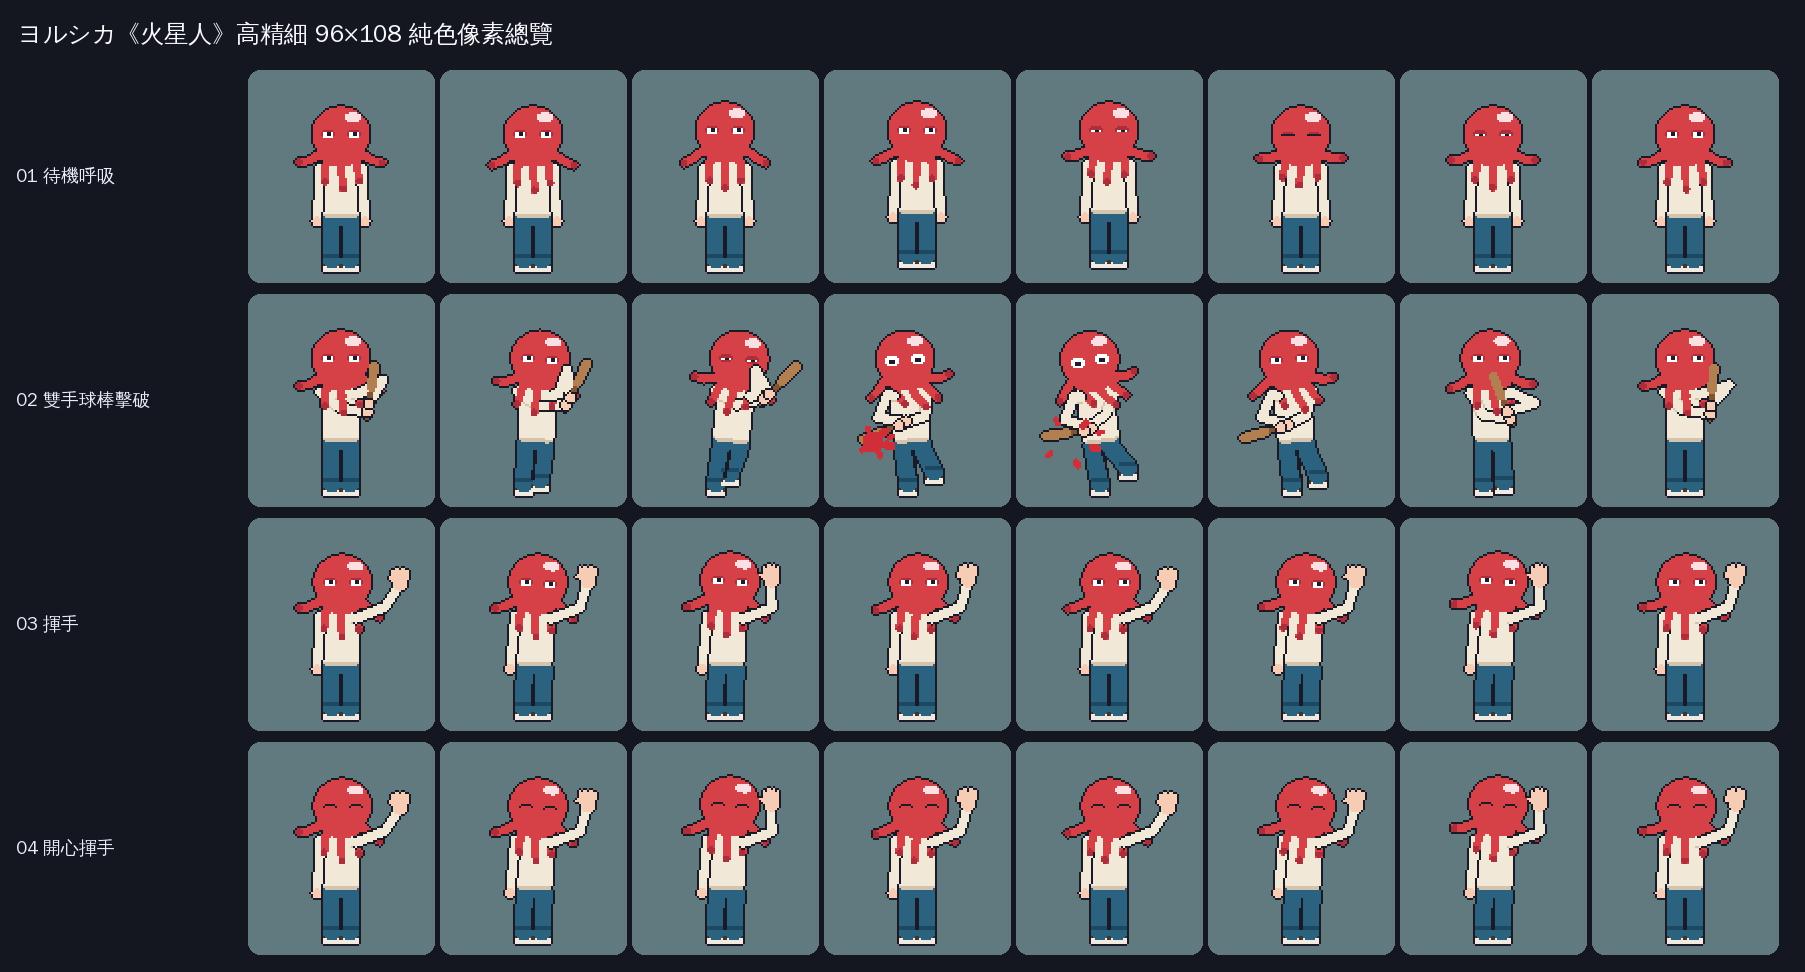
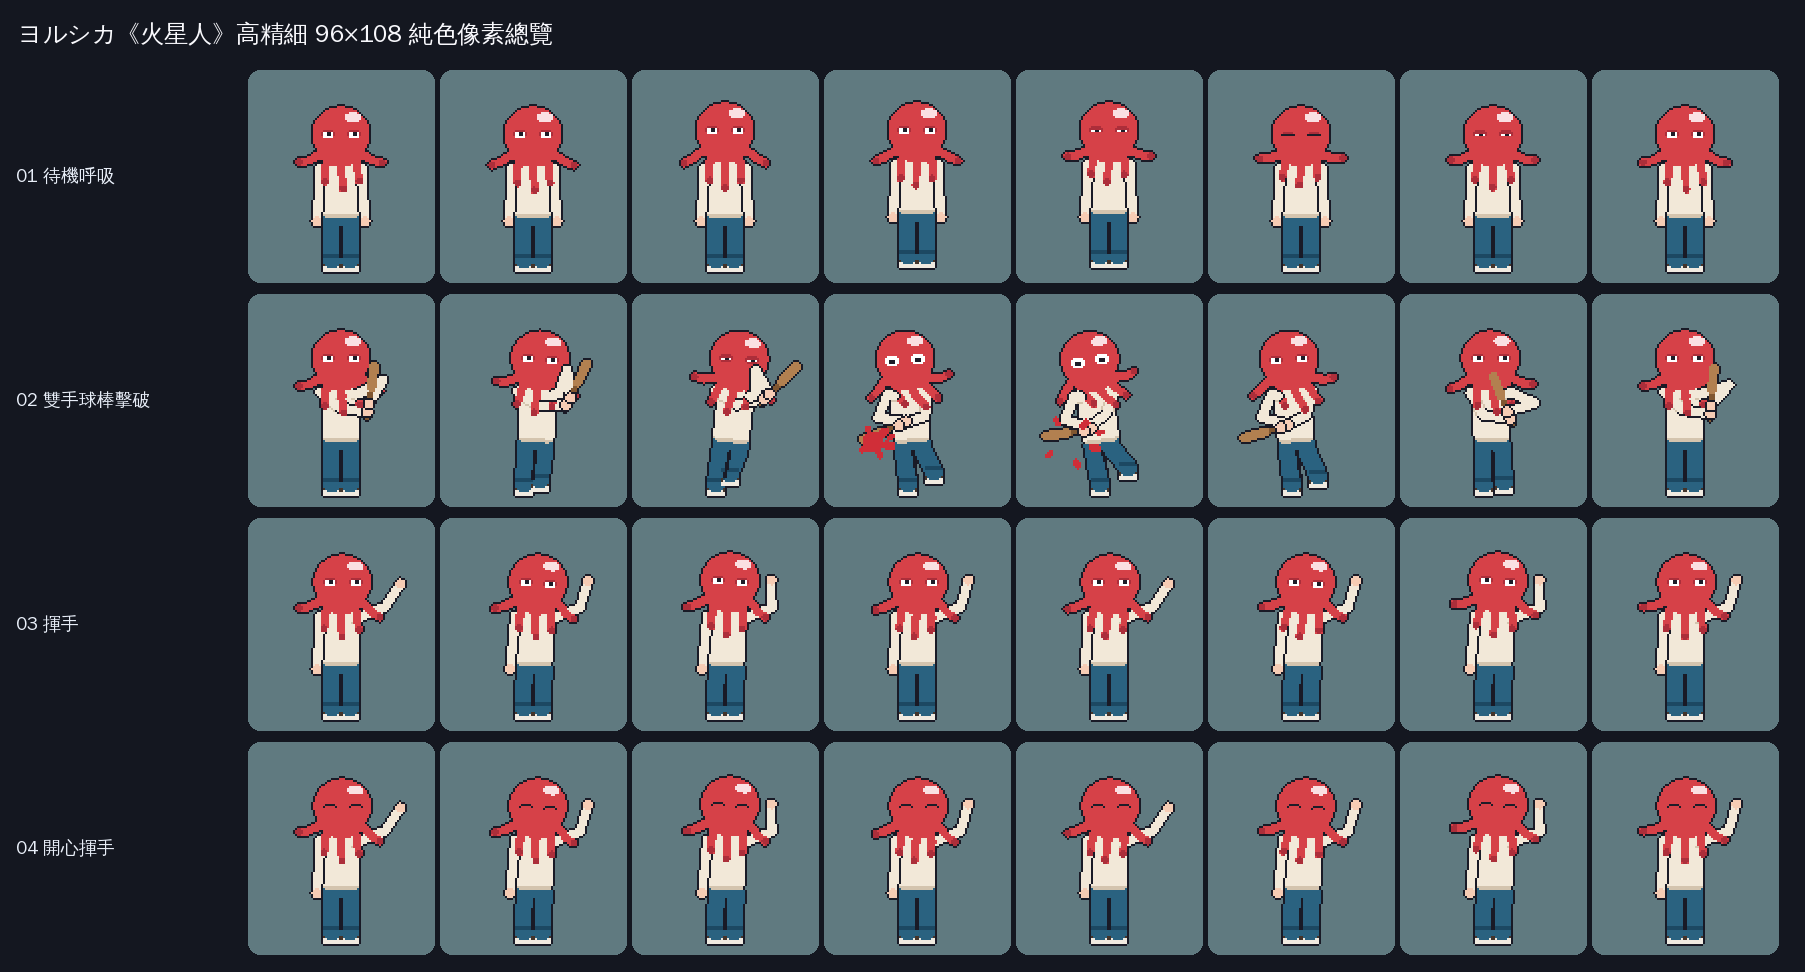
Wave hand without fingers; add glass-shatter preview script
Claude-Session: https://claude.ai/code/session_01HECj3vEVqSiXz2qRpdguCP

diff --git a/pixel/preview_glass.py b/pixel/preview_glass.py
@@ -1,0 +1,153 @@
+#!/usr/bin/env python3
+"""預覽「球棒敲碎玻璃」：把 app 裡 ShatteredLiquidGlassOverlay 的畫法照搬到 Python，
+疊在小工具（桌布底圖 + 火星人）上，輸出球棒 8 格的模擬圖。
+
+用法：python3 pixel/preview_glass.py <空白主畫面截圖.png>  →  pixel/out/bat-glass-preview.png
+"""
+import math
+import os
+import sys
+
+from PIL import Image, ImageDraw, ImageFilter
+
+import generate as g
+
+ROOT = os.path.dirname(os.path.dirname(os.path.abspath(__file__)))
+SLOT = (620, 1447, 483)                 # 右下那一格在截圖上的位置與邊長（像素）
+CROP = (12, 14, 89, 105)                # 圖片裁掉四周空白後的範圍（和輸出到 app 的一致）
+IMPACT = (0.22, 0.65)                   # 球棒落點在小工具上的相對位置
+PX = SLOT[2] / 164.0                    # 截圖上每 1 pt 是幾個像素
+SS = 3                                  # 先畫大再縮小，線條才平滑
+
+PRIMARY = [
+    (-2.94, [(0.06, 0.08), (0.14, -0.14), (0.29, 0.11), (0.52, -0.07), (0.86, 0.05)]),
+    (-2.38, [(0.05, -0.11), (0.13, 0.16), (0.26, -0.09), (0.48, 0.14), (0.78, -0.06)]),
+    (-1.86, [(0.07, 0.12), (0.17, -0.08), (0.35, 0.15), (0.64, -0.10)]),
+    (-1.32, [(0.05, -0.09), (0.15, 0.13), (0.31, -0.16), (0.55, 0.08)]),
+    (-0.62, [(0.06, 0.14), (0.16, -0.11), (0.34, 0.09), (0.68, -0.12)]),
+    (0.08, [(0.05, -0.12), (0.14, 0.09), (0.30, -0.14), (0.58, 0.07)]),
+    (0.72, [(0.06, 0.09), (0.18, -0.15), (0.38, 0.12), (0.74, -0.08)]),
+    (1.38, [(0.05, -0.13), (0.14, 0.11), (0.28, -0.08), (0.56, 0.13)]),
+    (2.04, [(0.07, 0.10), (0.19, -0.14), (0.41, 0.09), (0.84, -0.11)]),
+    (2.58, [(0.06, -0.08), (0.16, 0.15), (0.36, -0.12), (0.76, 0.09), (1.02, -0.05)]),
+]
+
+
+def glass(size, flash):
+    """回傳一張透明底的碎玻璃圖層（size×size 像素）。"""
+    S = size * SS
+    k = PX * SS                                        # 1 pt 對應的繪圖像素
+    cx, cy = S * IMPACT[0], S * IMPACT[1]
+    reach = math.hypot(S, S)
+    out = Image.new("RGBA", (S, S))
+
+    def radial(r, stops):
+        layer = Image.new("RGBA", (S, S))
+        d = ImageDraw.Draw(layer)
+        steps = 40
+        for i in range(steps, 0, -1):
+            t = i / steps
+            # 線性內插顏色
+            for (t0, c0), (t1, c1) in zip(stops, stops[1:]):
+                if t0 <= t <= t1:
+                    u = (t - t0) / (t1 - t0)
+                    col = tuple(round(c0[j] + (c1[j] - c0[j]) * u) for j in range(4))
+                    break
+            d.ellipse([cx - r * t, cy - r * t, cx + r * t, cy + r * t], fill=col)
+        return layer
+
+    if flash:
+        out.alpha_composite(radial(reach * 0.42, [(0, (255, 255, 255, 133)), (0.5, (209, 242, 255, 46)), (1, (255, 255, 255, 0))]))
+
+    segs, chains = [], []
+    for idx, (ang, steps) in enumerate(PRIMARY):
+        prev, nodes, cur = (cx, cy), [(cx, cy)], ang
+        for si, (frac, bend) in enumerate(steps):
+            cur += bend
+            nxt = (cx + math.cos(cur) * reach * frac, cy + math.sin(cur) * reach * frac)
+            prog = si / max(1, len(steps))
+            w, al = 2.15 * (1 - prog * 0.72), 0.96 - prog * 0.34
+            segs.append((prev, nxt, w, al))
+            nodes.append(nxt)
+            if si in (1, 2) or (si == 3 and idx % 2 == 0):
+                sign = 1.0 if (idx + si) % 2 == 0 else -1.0
+                fa = cur + sign * (0.34 + si * 0.06)
+                mid = (nxt[0] + math.cos(fa) * reach * 0.09, nxt[1] + math.sin(fa) * reach * 0.09)
+                tip = (mid[0] + math.cos(fa - sign * 0.14) * reach * 0.10, mid[1] + math.sin(fa - sign * 0.14) * reach * 0.10)
+                segs.append((nxt, mid, w * 0.56, al * 0.78))
+                segs.append((mid, tip, 0.42, al * 0.52))
+            prev = nxt
+        chains.append(nodes)
+
+    d = ImageDraw.Draw(out, "RGBA")
+    shards = Image.new("RGBA", (S, S))
+    sd = ImageDraw.Draw(shards)
+    for i in range(len(chains)):
+        j = (i + 1) % len(chains)
+        if len(chains[i]) > 3 and len(chains[j]) > 3:
+            a1, a2, b1, b2 = chains[i][1], chains[i][2], chains[j][1], chains[j][2]
+            if i % 3 != 1:
+                segs.append((a1, b2 if i % 2 == 0 else b1, 0.85, 0.68))
+            if i % 3 == 0:
+                sd.polygon([a1, a2, b2, b1], fill=(235, 248, 255, 32))
+            elif i % 3 == 1:
+                sd.polygon([a1, a2, b2, b1], fill=(0, 0, 0, 23))
+    out.alpha_composite(shards)
+
+    for layer_no in range(3):                          # 陰影 → 冷白切面 → 白色裂線
+        layer = Image.new("RGBA", (S, S))
+        ld = ImageDraw.Draw(layer)
+        for p0, p1, w, al in segs:
+            if layer_no == 0:
+                off, col, lw = (0.8 * k, 1.3 * k), (0, 0, 0, round(255 * al * 0.42)), (w + 0.6) * k
+            elif layer_no == 1:
+                if w <= 0.9:
+                    continue
+                off, col, lw = (-1.1 * k, -0.8 * k), (184, 240, 255, round(255 * al * 0.55)), w * 1.35 * k
+            else:
+                off, col, lw = (0, 0), (255, 255, 255, round(255 * al)), w * k
+            ld.line([(p0[0] + off[0], p0[1] + off[1]), (p1[0] + off[0], p1[1] + off[1])], fill=col, width=max(1, round(lw)))
+        out.alpha_composite(layer)
+
+    crater = max(7.0 * k, reach * 0.048)
+    out.alpha_composite(radial(crater * 1.5, [(0, (255, 255, 255, 199)), (0.5, (219, 242, 255, 82)), (1, (255, 255, 255, 0))]))
+    web = Image.new("RGBA", (S, S))
+    wd = ImageDraw.Draw(web)
+    for n in range(7):
+        a = n * 0.92 + 0.2
+        r1 = crater * (0.45 + (n % 3) * 0.28)
+        pa = (cx + math.cos(a) * r1, cy + math.sin(a) * r1)
+        pb = (cx + math.cos(a + 1.1) * r1 * 0.85, cy + math.sin(a + 1.1) * r1 * 0.85)
+        wd.polygon([(cx, cy), pa, pb], fill=(255, 255, 255, 115 if n % 2 == 0 else 56))
+        wd.line([(cx, cy), pa, pb, (cx, cy)], fill=(255, 255, 255, 235), width=max(1, round(0.75 * k)))
+    out.alpha_composite(web)
+    return out.resize((size, size), Image.LANCZOS)
+
+
+def main():
+    shot = Image.open(sys.argv[1]).convert("RGBA")
+    x0, y0, S = SLOT
+    bg = shot.crop((x0, y0, x0 + S, y0 + S))
+    scale = (S - 12) / (CROP[3] - CROP[1])
+    mask = Image.new("L", (S, S), 0)
+    ImageDraw.Draw(mask).rounded_rectangle([0, 0, S - 1, S - 1], radius=round(24 * PX), fill=255)
+    sheet = Image.new("RGB", ((S + 16) * 4 + 16, (S + 56) * 2 + 16), (20, 23, 32))
+    dr = ImageDraw.Draw(sheet)
+    notes = ["1 舉棒", "2 往後拉", "3 蓄力", "4 擊中：閃光＋玻璃碎裂", "5 裂痕留著", "6 裂痕留著", "7 收棒", "8 回到預備"]
+    for i in range(8):
+        tile = bg.copy()
+        sp = g.to_image(g.render(g.DESIGN_MV, g.anim_bat(i / 8))).crop(CROP)
+        sp = sp.resize((round(sp.width * scale), round(sp.height * scale)), Image.NEAREST)
+        tile.alpha_composite(sp, ((S - sp.width) // 2, (S - sp.height) // 2))
+        if i >= 3:
+            tile.alpha_composite(glass(S, flash=(i == 3)))
+        x, y = 16 + (i % 4) * (S + 16), 16 + (i // 4) * (S + 56)
+        sheet.paste(tile.convert("RGB"), (x, y + 40), mask)
+        dr.text((x + 6, y + 4), notes[i], font=g.font(26), fill=(240, 240, 245))
+    path = os.path.join(ROOT, "pixel", "out", "bat-glass-preview.png")
+    sheet.save(path)
+    print("saved", path)
+
+
+if __name__ == "__main__":
+    main()

diff --git a/pixel/generate.py b/pixel/generate.py
@@ -928,7 +928,8 @@ def anim_bat(t):
 def _wave(t, eyes):
     idx = int(round(t * FRAMES)) % FRAMES
     swing = [34, 52, 70, 52, 34, 52, 70, 52][idx]          # 前臂來回揮兩次
-    return dict(armR=(112, swing, True), openPalmR=True, tilt=3, bob=-1 if idx in (2, 6) else 0,
+    return dict(armR=(112, swing, True), tilt=3,              # 手掌維持圓圓的一顆，不畫手指
+                bob=-1 if idx in (2, 6) else 0,
                 lean=1.5 if idx in (1, 2, 5, 6) else 0, sway=2 * math.pi * t, sway_amp=3.0, eyes=eyes)
 
 
